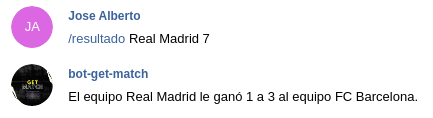
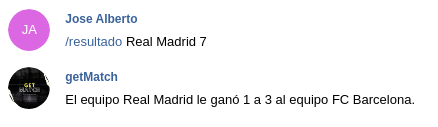
cambio doc para uso correcto de webhook, closes #78

diff --git a/docs/serverless/serverless.md b/docs/serverless/serverless.md
@@ -8,26 +8,23 @@ service: bot-get-match
 provider:
   name: aws
   runtime: ruby2.7
-  memorySize: 128
-  region: eu-west-3
   stage: dev
+  region: eu-west-2
 
 functions:
-  getMatch:
+  get:
     handler: handler.getMatch
-    description: "Da el resultado de un partido de fútbol"
     events:
       - http:
-          path: /
+          path: getMatch
           method: get
-    environment:
-      TG_TOKEN: ${ssm:bot-get-match-token~true}
+          cors: true
 ```
 
 De forma general, establezco lo siguiente:
 
 - Nombre del servicio
-- Proveedor: aws con runtime de ruby. En mi caso he establecido un tamaño de memoria menor que el que venía por defecto (1024), pues no requería de tanto. Además, es necesario establecer la región, en mi caso París, el más cercano a mi ubicación.
-- Función serverless: hay que establecer en que archivo está la función serverless y qué función de ellas es. En mi caso está en el archivo handler y se llama getMatch. Establecemos que ese trata de un evento get y le proporcionamos una variable TG_TOKEN que contiene el valor del token de telegram y la cual he creado desde la página de AWS para que pueda acceder a ella.
+- Proveedor: aws con runtime de ruby. Además, es necesario establecer la región, en mi caso uno del oeste de Europa, debido a mi ubicación.
+- Función serverless: hay que establecer en que archivo está la función serverless y qué función del archivo es. En mi caso está en el archivo handler y se llama getMatch. Por último, establecemos que ese trata de un evento get.
 
 El uso de esta herramienta me permite poder mover mi bot de una plataforma a otra de una manera muy sencilla. Por ejemplo, para pasar mi bot a Azure simplemente tendría que cambiar el apartado provider, indicando en el nombre azure, cambiando la región a la correspondiente en dicha plataforma y ajustando el resto de parámetros que representan al proveedor, ejecutando el correspondiende `serverless deploy` o directamente al hacer push se subiría a dicha plataforma.

diff --git a/docs/serverless/aws_lamda.md b/docs/serverless/aws_lamda.md
@@ -119,18 +119,16 @@ Como se puede observar, considero tres comandos:
 
 - En otro caso, devuelve un mensaje explicativo sobre los posibles usos del bot.
 
-4. Por último, nos conectamos a la API de Telegram, para devolver el mensaje a traves del bot que creamos.
+4. Por último, devolvemos el mensaje correspondiente al usuario.
 
 ```ruby
-        payload = {text: msg, chat_id: chat_id}
-    
-        uri = URI("https://api.telegram.org")
-    
-        Net::HTTP.start(uri.hostname, uri.port, {use_ssl: true}) do |http|
-            req = Net::HTTP::Get.new("/bot#{TOKEN}/sendMessage", {'Content-Type' => 'application/json; charset=utf-8'})
-            req.body = payload.to_json
-            http.request(req)
-        end
+        return {
+            statusCode: 200,
+            body: ({text:msg, method:'sendMessage', chat_id:chat_id}).to_json,
+            headers:{
+                'Content-Type': 'application/json'
+            }
+        }
 ```
 
 ## Test del código
@@ -151,7 +149,7 @@ En la siguiente imagen se puede ver el correcto deploy a AWS Lambda:
 
 ## Prueba de funcionamiento
 
-Para probar el bot podemos usarlo desde el siguiente [enlace](https://t.me/getMatch_bot). Pruebas de su correcto funcionamiento puede verse a continuación:
+Para probar el bot podemos usarlo desde el siguiente [enlace](https://t.me/getMatchbot). Pruebas de su correcto funcionamiento puede verse a continuación:
 
 ![bot1](../img/serverless/bot1.png)
 
